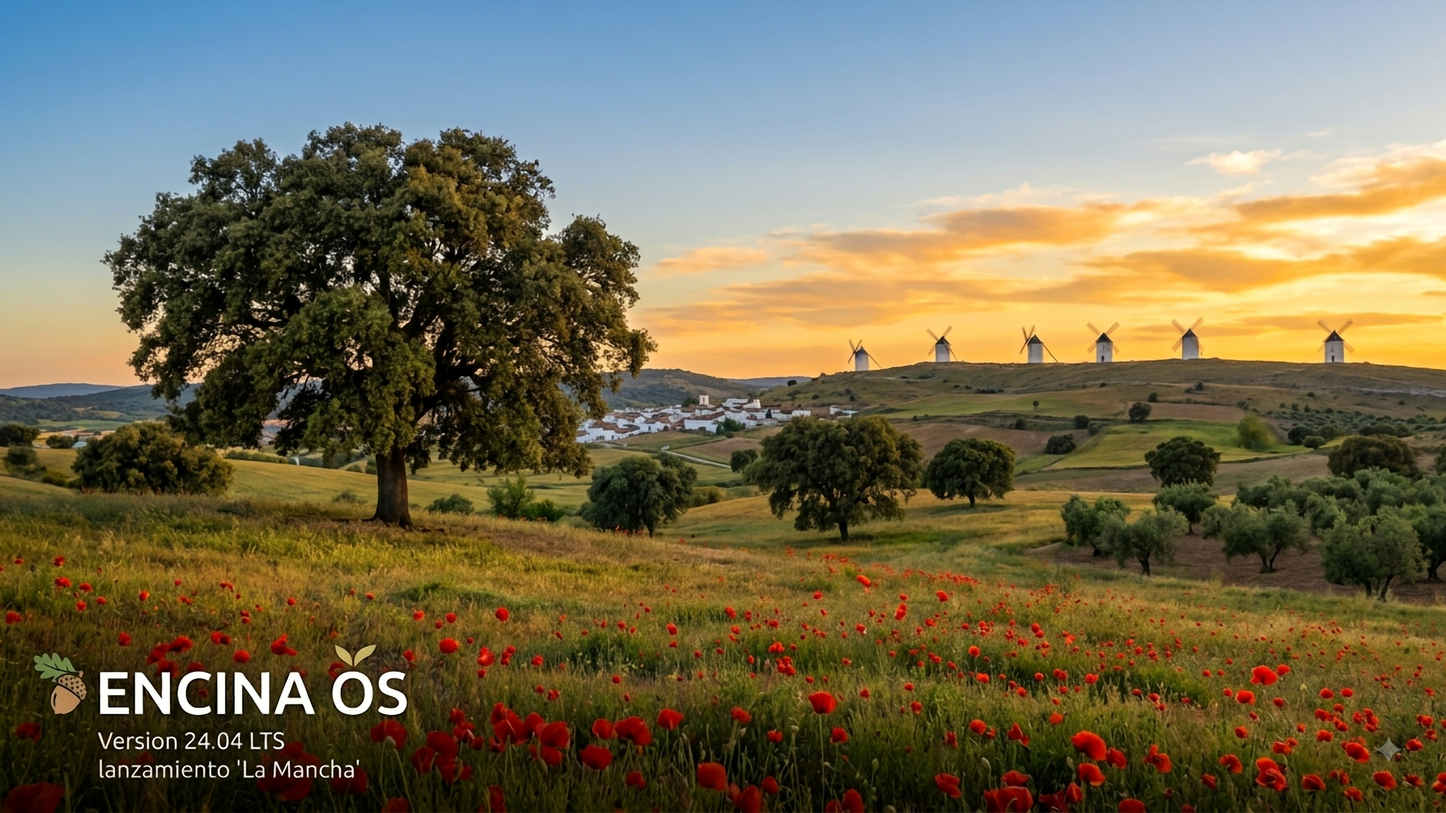
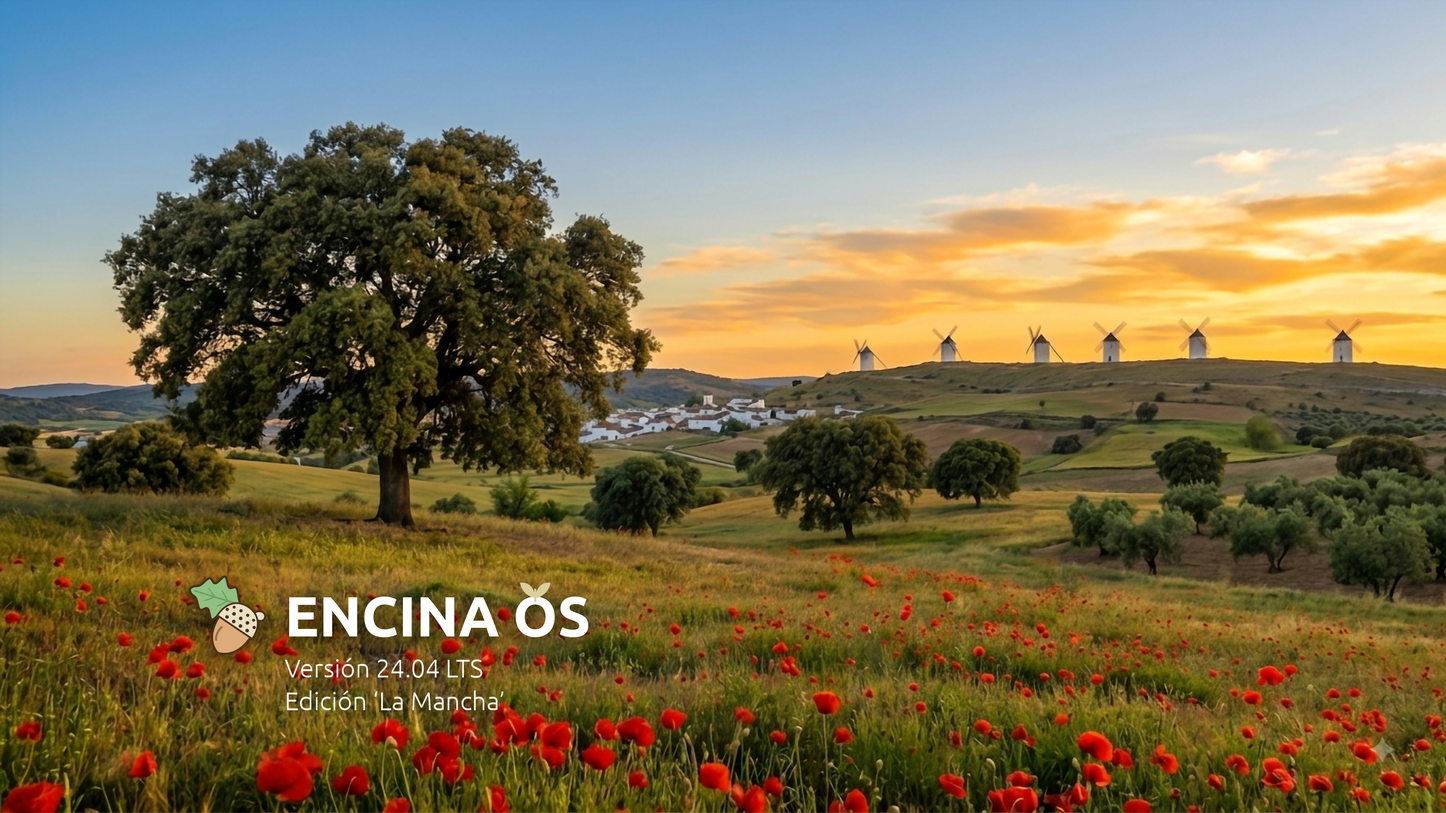
0.1.13: la marca del fondo ya cabe entera, y ahora eso se mide en vez de mirarse
Los dos maestros nuevos de Jorge llevan el logotipo, el nombre y las dos lineas
dentro del recuadro que sobrevive al 4:3 Y al 21:9 -x 480..3360, y 257..1903-,
asi que 'zoom' deja de comerse la bellota en cuanto la pantalla no es 16:9. La
prueba esta en design/capturas/fondo-0.1.13/, tomada EN LA MISMA VENTANA de UTM
que la de 0.1.12 donde salia cortada: lo unico que ha cambiado es donde esta la
marca dentro de la imagen.

Y lo que de verdad cierra la casilla no es el dibujo, es scripts/zona-segura.py,
porque un fallo que solo se ve mirando una captura es un fallo que la proxima vez
no se ve. Localiza la marca COMPARANDO EL MAESTRO DE DIA CON EL DE NOCHE -es lo
unico igual en las dos-, y esa idea llego despues de que el control tumbara las
dos primeras: buscar «lo blanco» cogia las casas del pueblo y las nubes doradas,
y buscar «lo brillante» cogia el campo iluminado; las dos devolvian una caja del
ancho entero. Con los maestros de hoy da OK con 28 px de margen a la izquierda y
19 por abajo; con los de la 0.1.12, FALLO. Por eso ese par NO se borra de
maestros/: es el control, y sin el la comprobacion no puede ensenar su rojo.

De paso, dos cosas que solo se ven mirando y que Jorge ha corregido en el dibujo:
'Version' lleva ya su tilde -sin ella viajo dentro del JPEG de la 0.1.12- y
'lanzamiento La Mancha' pasa a 'Edicion La Mancha'.

Medido en encina-dev: 03-construir 33/0/0 con lintian limpio, 04-instalar 10/0/0,
[…]

diff --git a/scripts/zona-segura.py b/scripts/zona-segura.py
@@ -1,0 +1,157 @@
+#!/usr/bin/env python3
+"""zona-segura.py — ¿cabe la marca del fondo dentro de lo que NO recorta 'zoom'?
+
+    ./scripts/zona-segura.py <maestro-claro.png> <maestro-oscuro.png> [--dibujar salida.png]
+
+POR QUE EXISTE. 'picture-options' está en 'zoom': GNOME rellena la pantalla y
+recorta lo que sobra, así que una imagen 16:9 solo se ve entera en una pantalla
+16:9 exactamente. El 2026-08-15 eso se descubrió MIRANDO UNA CAPTURA —la bellota
+del logotipo salía cortada por el borde izquierdo—, y una cosa que se descubre
+mirando es una cosa que la próxima vez no se descubre. Esto la mide.
+
+LA ZONA SEGURA es el recuadro que sobrevive a la vez al 4:3 y al 21:9, los dos
+extremos razonables. Sobre 3840x2160:  x 480..3360,  y 257..1903. La tabla por
+proporción y de dónde salen esos números están en design/fondos/LEEME.md.
+
+COMO SE LOCALIZA LA MARCA, y por que hacen falta LAS DOS IMAGENES. El primer
+intento buscaba «lo blanco» y «lo brillante», y las dos cosas fallaron con su
+control delante: cogían las nubes doradas, las casas blancas del pueblo y el
+campo iluminado, y devolvían una caja del ancho entero. Lo que sí distingue a la
+marca es que ES LO UNICO IGUAL EN LAS DOS IMAGENES: el paisaje es de día en una
+y de noche en la otra, y el logotipo es el mismo. Así que se comparan píxel a
+píxel y se queda lo que coincide y además es claro.
+
+Eso deja todavía píxeles sueltos coincidiendo por casualidad, así que se dilata
+la máscara para que las letras sueltas formen un grupo, se agrupa por vecindad y
+SE DESCARTAN LOS GRUPOS PEQUEÑOS. Lo que queda son cuatro: el logotipo, las dos
+partes del nombre y el bloque de dos líneas de abajo.
+
+El umbral son 100 píxeles a esta escala, y no es redondo por gusto: con 40 se
+colaba un grupo de 56 arriba a la derecha —la luna del maestro oscuro cae sobre
+una nube clara del maestro de día, y coinciden—, que estiraba la caja hasta
+x=3248 sin cambiar el veredicto pero contando una mentira. El grupo real más
+pequeño tiene 239. Cien deja fuera cualquier cosa menor que una letra.
+
+EL CONTROL, y sin él esto no vale nada: con --dibujar sale un PNG con la caja
+detectada y la zona segura encima; si la detección se equivoca, se ve. Y la
+prueba de que sabe decir que no es el par de maestros del 2026-08-15 por la
+mañana, que da FALLO con la marca a 136 px del borde.
+
+No usa Pillow: no está en este Mac. Lee los píxeles con ffmpeg, que sí está.
+"""
+import subprocess
+import sys
+from collections import deque
+
+ANCHO, ALTO = 3840, 2160
+SEGURA = (480, 257, 3360, 1903)   # x0, y0, x1, y1
+W, H = 960, 540                   # se analiza reducido: 4 px de resolución, y basta
+IGUAL = 10                        # diferencia máxima por canal para considerar «lo mismo»
+CLARO = 110                       # la marca es clara; esto quita coincidencias en sombras
+DILATA = 5                        # radio para unir letras sueltas en un grupo
+MINIMO = 100                      # grupos más pequeños que una letra: ruido, fuera
+
+
+def pixeles(ruta):
+    orden = ["ffmpeg", "-hide_banner", "-v", "error", "-i", ruta,
+             "-vf", f"scale={W}:{H},format=rgb24", "-f", "rawvideo", "-"]
+    return subprocess.run(orden, capture_output=True, check=True).stdout
+
+
+def mascara(claro, oscuro):
+    a, b = pixeles(claro), pixeles(oscuro)
+    m = bytearray(W * H)
+    for y in range(H):
+        for x in range(W):
+            i = (y * W + x) * 3
+            if (abs(a[i] - b[i]) <= IGUAL and abs(a[i + 1] - b[i + 1]) <= IGUAL
+                    and abs(a[i + 2] - b[i + 2]) <= IGUAL
+                    and min(a[i], a[i + 1], a[i + 2]) >= CLARO):
+                m[y * W + x] = 1
+    return m
+
+
+def grupos(m):
+    d = bytearray(W * H)
+    for y in range(H):
+        for x in range(W):
+            if m[y * W + x]:
+                for dy in range(-DILATA, DILATA + 1):
+                    yy = y + dy
+                    if 0 <= yy < H:
+                        for dx in range(-DILATA, DILATA + 1):
+                            xx = x + dx
+                            if 0 <= xx < W:
+                                d[yy * W + xx] = 1
+    vis, fuera = bytearray(W * H), []
+    for y in range(H):
+        for x in range(W):
+            if d[y * W + x] and not vis[y * W + x]:
+                q, pts = deque([(x, y)]), []
+                vis[y * W + x] = 1
+                while q:
+                    cx, cy = q.popleft()
+                    if m[cy * W + cx]:
+                        pts.append((cx, cy))
+                    for dx, dy in ((1, 0), (-1, 0), (0, 1), (0, -1)):
+                        nx, ny = cx + dx, cy + dy
+                        if 0 <= nx < W and 0 <= ny < H and d[ny * W + nx] and not vis[ny * W + nx]:
+                            vis[ny * W + nx] = 1
+                            q.append((nx, ny))
+                if len(pts) >= MINIMO:
+                    fuera.append(pts)
+    return sorted(fuera, key=len, reverse=True)
+
+
+def caja(pts):
+    k = ANCHO / W
+    xs, ys = [p[0] for p in pts], [p[1] for p in pts]
+    return (int(min(xs) * k), int(min(ys) * k), int(max(xs) * k), int(max(ys) * k))
+
+
+def main():
+    if len(sys.argv) < 3:
+        print("uso: zona-segura.py <maestro-claro.png> <maestro-oscuro.png> [--dibujar salida.png]")
+        return 2
+    claro, oscuro = sys.argv[1], sys.argv[2]
+    dibujar = sys.argv[sys.argv.index("--dibujar") + 1] if "--dibujar" in sys.argv else None
+
+    gs = grupos(mascara(claro, oscuro))
+    if not gs:
+        print("[FALLO] no se ha encontrado ninguna marca: ¿son estas dos el mismo par?")
+        return 1
+
+    cajas = [caja(g) for g in gs]
+    total = (min(c[0] for c in cajas), min(c[1] for c in cajas),
+             max(c[2] for c in cajas), max(c[3] for c in cajas))
+
+    print(f"zona segura   x {SEGURA[0]}..{SEGURA[2]}   y {SEGURA[1]}..{SEGURA[3]}")
+    for i, (c, g) in enumerate(zip(cajas, gs), 1):
+        print(f"  grupo {i}     x {c[0]}..{c[2]}   y {c[1]}..{c[3]}   ({len(g)} px)")
+    print(f"marca entera  x {total[0]}..{total[2]}   y {total[1]}..{total[3]}")
+
+    margen = (total[0] - SEGURA[0], total[1] - SEGURA[1],
+              SEGURA[2] - total[2], SEGURA[3] - total[3])
+    print(f"margenes      izq {margen[0]}  arr {margen[1]}  der {margen[2]}  abj {margen[3]}  "
+          f"(la medida tiene {ANCHO // W} px de resolucion)")
+
+    codigo = 0
+    if min(margen) < 0:
+        print("[FALLO] la marca SE SALE de la zona segura: se cortara en pantallas que no sean 16:9")
+        codigo = 1
+    else:
+        print("[OK]    la marca cabe entera en la zona segura")
+
+    if dibujar:
+        filtro = (f"drawbox=x={SEGURA[0]}:y={SEGURA[1]}:w={SEGURA[2]-SEGURA[0]}:"
+                  f"h={SEGURA[3]-SEGURA[1]}:color=lime:t=8,"
+                  f"drawbox=x={total[0]}:y={total[1]}:w={total[2]-total[0]}:"
+                  f"h={total[3]-total[1]}:color=white:t=6,scale=1920:1080")
+        subprocess.run(["ffmpeg", "-hide_banner", "-v", "error", "-y", "-i", claro,
+                        "-vf", filtro, dibujar], check=True)
+        print(f"[OJOS]  {dibujar}: la caja blanca tiene que rodear la marca y nada mas")
+    return codigo
+
+
+if __name__ == "__main__":
+    sys.exit(main())

diff --git a/design/fondos/LEEME.md b/design/fondos/LEEME.md
@@ -5,6 +5,11 @@ Los maestros están en `maestros/` y **no viajan en el clon**: son cinco JPEG de
 mismo paisaje de día y de noche—. Lo que viaja es
 [manifiesto.tsv](manifiesto.tsv).
 
+*Y hay un tercer par en `maestros/`, el de la 0.1.12* —`encina-os-splash-4k-*`,
+sin `light`/`dark` en el nombre—. **No se borra a propósito:** es el control de
+`scripts/zona-segura.py`, el par cuya marca se salía. Sin él, esa comprobación no
+puede demostrar que sabe dar su rojo.
+
 Lo que se envía son seis ficheros a 3840×2160 dentro de
 `debian-packages/encina-branding/src/usr/share/backgrounds/encina/`.
 
@@ -12,8 +17,8 @@ Lo que se envía son seis ficheros a 3840×2160 dentro de
 
 | Se envía como | Sale de | Cómo se supo |
 |---|---|---|
-| `encina.jpg` | `encina-os-splash-4k-3840x2160.png` | **Se hizo el 2026-08-15**, con la orden escrita en el manifiesto |
-| `encina-dark.jpg` | `encina-os-splash-dark-4k-3840x2160.png` | **Maestro propio de noche**, misma sesión: ya no se deriva del claro |
+| `encina.jpg` | `encina-os-splash-light-4k.png` | **0.1.13**, con la marca ya dentro de la zona segura |
+| `encina-dark.jpg` | `encina-os-splash-dark-4k.png` | Lo mismo de noche: no se deriva del claro, es una imagen propia |
 | `amapolas.jpg` | `amapolas.jpg` | Mismo nombre |
 | `farallon.jpg` | `farallon.jpg` | Mismo nombre |
 | `olivar.jpg` | `olivar.jpg` | Mismo nombre |
@@ -49,8 +54,8 @@ elegido por medida —igualaba el `YAVG` 53,8 del `encina-dark.jpg` anterior—.
 orden ya no está en el manifiesto. La sustituyó una conversión limpia del maestro
 propio.
 
-*El número, para quien compare:* el oscuro nuevo da `YAVG` **46,4** sobre el JPEG
-que viaja, frente a 53,8 del anterior. Es **algo más oscuro**, y es una decisión
+*El número, para quien compare:* el oscuro da `YAVG` **47,0** sobre el JPEG que
+viaja en la 0.1.13 —46,4 en la 0.1.12—, frente a 53,8 del de Unsplash. Es **algo más oscuro**, y es una decisión
 de Jorge. **Cuidado al medirlo:** ese mismo `ffmpeg signalstats` sobre el PNG
 maestro devuelve 55,8, y no es otra imagen — es otra escala, porque el PNG se mide
 en rango limitado y el JPEG en rango completo. Comparar un PNG con un JPEG por
@@ -84,12 +89,27 @@ y:  257 .. 1903      (1646 px de alto)
 ```
 
 Está dibujada en [zona-segura.png](zona-segura.png), en verde, con las bandas de
-recorte de cada proporción y —en blanco— la caja donde está hoy la marca:
-`x 136..1076, y 1784..2060`. Se ve de un vistazo que **la marca actual está casi
-entera fuera**: empieza a 136 px del borde, el 3,5 % del ancho.
+recorte de cada proporción y —en blanco— la caja de la marca. Regenerada el
+2026-08-15 con el maestro de la 0.1.13, donde la marca ya cae dentro:
+`x 508..1556, y 1536..1884`. En la 0.1.12 esa caja era `x 136..1076,
+y 1784..2060` y se salía por la izquierda y por abajo.
 
 **Todo lo que tenga que leerse siempre —logotipo, palabra, versión— va dentro del
 recuadro verde.** El paisaje puede salirse: para eso está el recorte.
+
+### Y se comprueba, que era la otra mitad
+
+`./scripts/zona-segura.py <claro> <oscuro>` lo mide. **Localiza la marca
+comparando las dos imágenes**, porque es lo único igual en ambas —el paisaje es
+de día en una y de noche en la otra—; buscar «lo blanco» o «lo brillante» no
+sirve, y no es una suposición: los dos primeros intentos devolvían el ancho
+entero porque cogían las nubes doradas, las casas del pueblo y el campo
+iluminado. El control lo dijo antes que nadie.
+
+Con los maestros de la 0.1.13: `[OK]`, con **28 px de margen a la izquierda y 19
+por abajo**, que es poco pero está medido y la resolución de la medida son 4 px.
+Con los de la 0.1.12: `[FALLO]`, la marca a 136 px del borde. Sabe dar sus dos
+respuestas.
 
 *Y la alternativa que se descartó, con su medida, porque volverá a proponerse:*
 `picture-options='scaled'` no recorta nunca y pone franjas del color de relleno

diff --git a/design/capturas/fondo-0.1.13/LEEME.md b/design/capturas/fondo-0.1.13/LEEME.md
@@ -1,0 +1,34 @@
+# La marca dentro de la zona segura — `encina-branding` 0.1.13, 2026-08-15
+
+Las mismas pantallas que [../fondo-0.1.12/](../fondo-0.1.12/) y **en la misma
+ventana de UTM**, que es lo que hace que la comparación signifique algo: si el
+tamaño de la ventana hubiera cambiado, esto no probaría nada.
+
+Siguen siendo `[OJOS]`: aquí está la evidencia, la aprobación es de Jorge.
+
+| Fichero | Qué es |
+|---|---|
+| `0-gdm.png` | GDM con los dos usuarios |
+| `1-usuario.png`, `2-clave.png` | `prueba` elegido y la clave tecleada |
+| `3-escritorio-claro.png` | **El fondo de día** |
+| `4-escritorio-oscuro.png` | **El de noche** |
+
+Se mira `prueba` y no `jorge`, por lo que está explicado en el LEEME de la
+0.1.12: `jorge` tiene `amapolas` y el tema `Yaru` escritos en su propio `dconf` y
+no sirve para mirar ningún valor por defecto.
+
+## Qué cambia respecto de la 0.1.12
+
+- **La bellota sale entera.** En `../fondo-0.1.12/prueba-3-escritorio-claro.png`
+  queda cortada por el borde izquierdo; aquí no. Es el mismo recorte de `zoom`
+  sobre la misma ventana: lo que cambió es dónde está la marca dentro de la
+  imagen.
+- **`Versión` lleva su tilde.** En la 0.1.12 viajaba sin ella dentro del JPEG.
+- **`lanzamiento 'La Mancha'` pasa a `Edición 'La Mancha'`.**
+
+## Lo que sigue igual, y conviene no darlo por resuelto
+
+**El número de versión sigue quemado dentro de la imagen.** `24.04 LTS` es hoy
+correcto y el día que cambie, el fondo mentirá y no se podrá actualizar sin
+rehacer los dos maestros y sacar una versión del paquete. No es un fallo: es una
+decisión con un coste, y el coste conviene tenerlo escrito.
